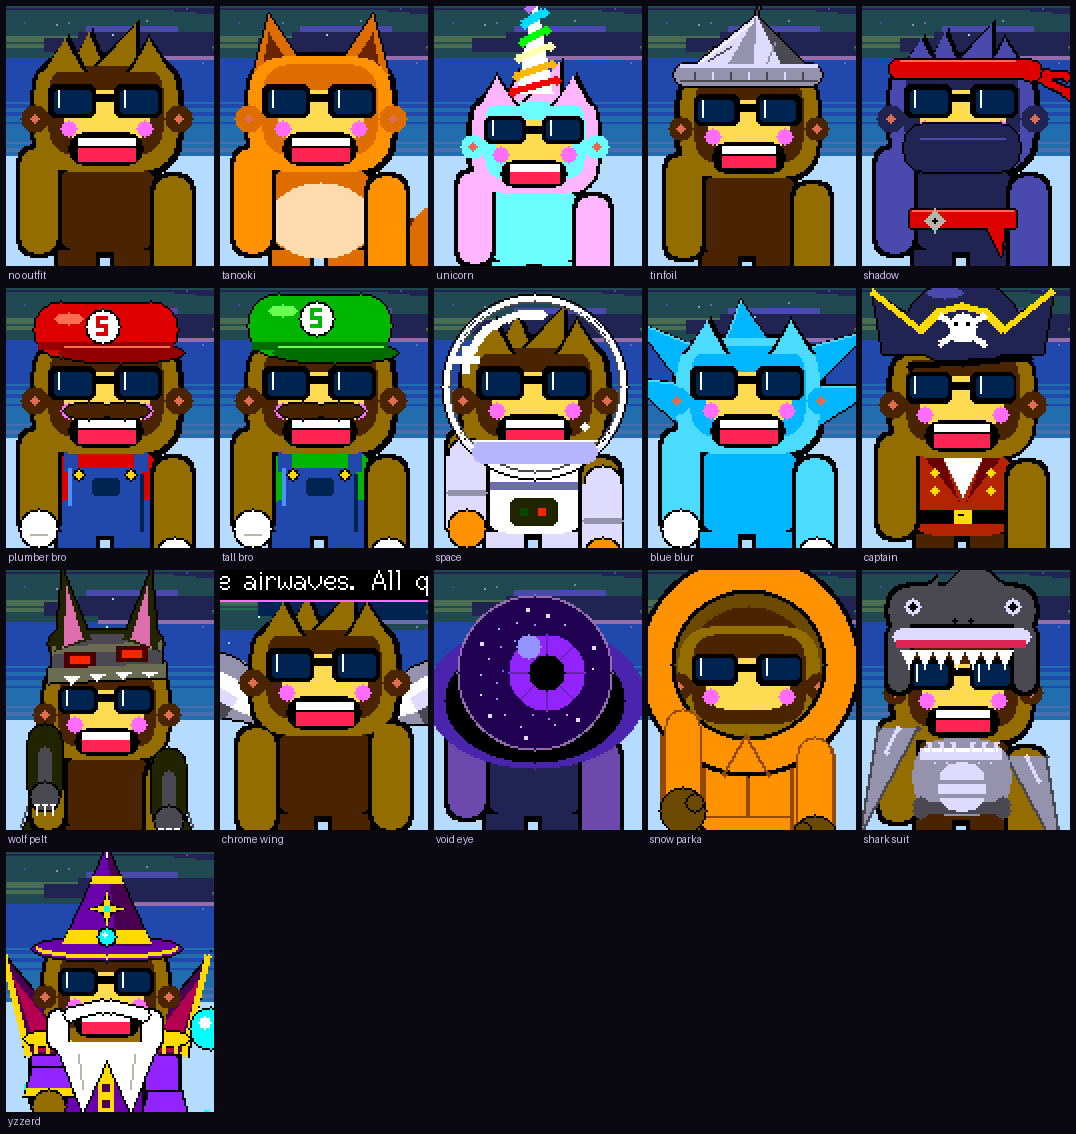
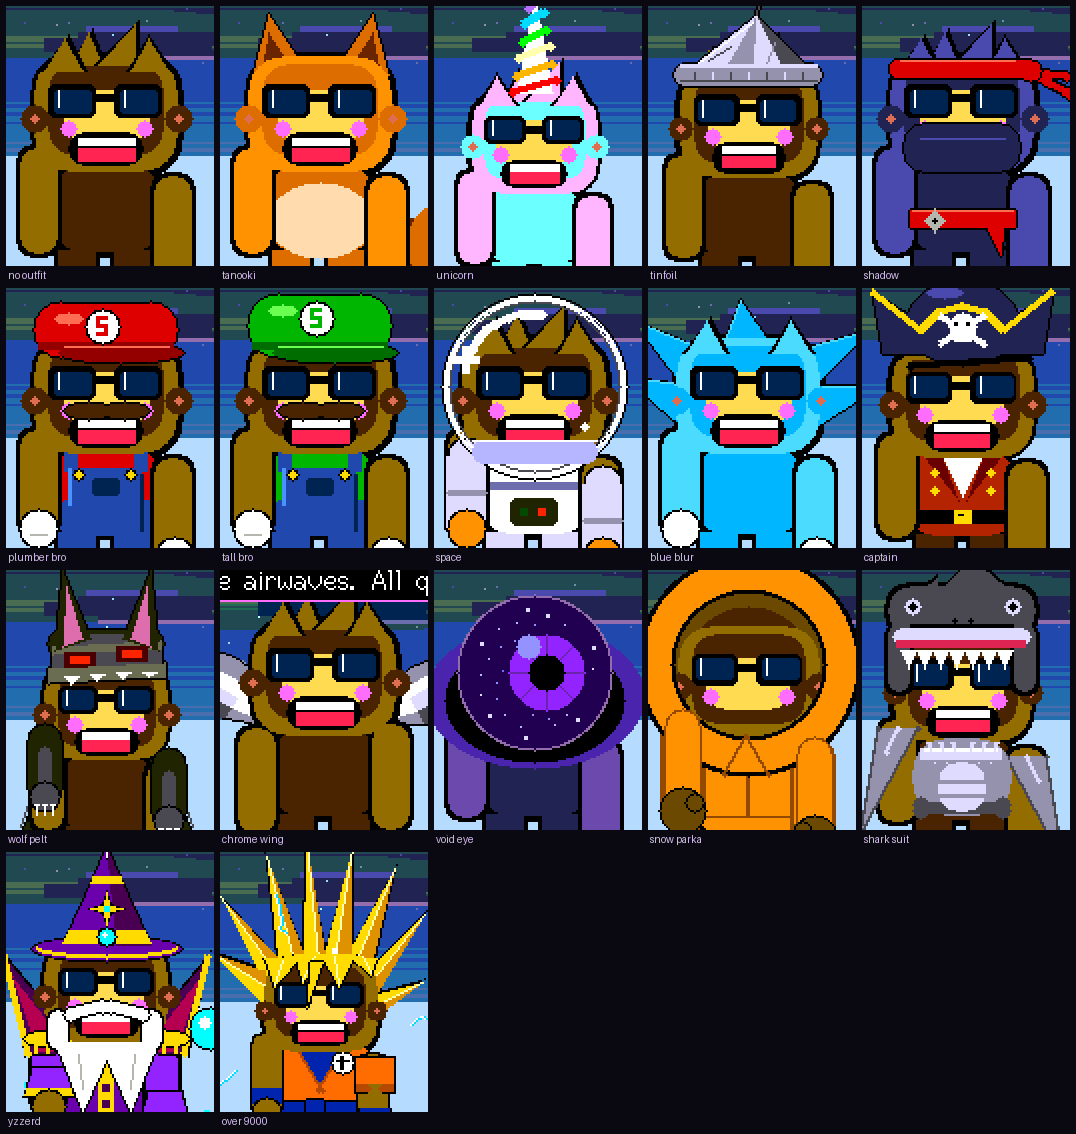
v1.28.0 "Over 9000": release notes, clip, and the C5 in the Release
The notes, docs/over-9000.gif, the outfit gallery with OVER 9000 in it and
the README's count and new board. release-flasher.yml builds the NM-CYD-C5
in a runner of its own (its toolchain must not share one with the Xtensa
builds) and attaches its four files to the Release -- no merged image for
it, which would wipe NVS -- and the release goes out without it if that
runner fails. The C5 stays off the browser flasher until its library is
shown to handle a C5.

Changed region(s): [[0.184, 0.7407, 0.3987, 1.0]]

diff --git a/sim/make_show_demo.py b/sim/make_show_demo.py
@@ -32,6 +32,18 @@ CYAN  = (0, 214, 214)
 # ---- the clips ----
 
 CLIPS = {
+    # v1.28.0 "Over 9000": the scouter unlock (a tap on his shades with the
+    # aura lit, which --tap lands on him), the outfit it earns, and the tank
+    # redrawn in whole numbers. The C5 is a chip, not a screen, so it gets a
+    # caption. SQUACHSIM_LEGEND lights the aura without the catches.
+    "over-9000": [
+        ("clear", 260, 30, ["--noseed", "--bg", "5"], {"SQUACHSIM_LEGEND": "1"}, 1500, "A LEGEND. THOSE SHADES READ MORE THAN LIGHT..."),
+        ("clear", 30, 104, ["--noseed", "--bg", "5", "--tap", "40:160:88"], {"SQUACHSIM_LEGEND": "1"}, 1800, "TAP THEM. HOLD STILL. READING..."),
+        ("clear", 260, 36, ["--noseed", "--bg", "1", "--outfit", "16"], {"SQUACHSIM_LEGEND": "1"}, 1600, "OVER 9000. OBVIOUSLY."),
+        ("clear", 260, 36, ["--noseed", "--bg", "8", "--outfit", "16"], {}, 1400, "GOLD HAIR, TORN SLEEVE, STATIC. IT'S A LOOK."),
+        ("clear", 200, 36, ["--noseed", "--bg", "3"], {}, 1600, "THE TANK DRAWS IN WHOLE NUMBERS NOW. SAME FISH."),
+        ("clear", 200, 30, ["--noseed", "--bg", "7"], {}, 1800, "AND A NEW CHIP: THE ESP32-C5. FIRST RISC-V BOARD."),
+    ],
     # v1.27.0 "Power-Up": the Legend's aura replaces the top hat, and the
     # YZZERD wizard, unlocked by tapping XYZZY on the TERMINAL background.
     # SQUACHSIM_LEGEND wears the Legend look without the catches; the

diff --git a/.github/release-notes/v1.28.0.md b/.github/release-notes/v1.28.0.md
@@ -1,0 +1,28 @@
+<!-- name: Over 9000 -->
+<!-- board: a new outfit behind a scouter | the first RISC-V board: RockBase NM-CYD-C5 | the aquarium and the wizard draw leaner -->
+**Over 9000.** Last time, Legends got an aura. This time Squachy found out what those sunglasses are for. Tap his shades while the aura is lit and a scouter flips down over one lens, hunts about, and starts reading his power level. It climbs. It climbs some more. Then it reads a number no scouter should have to read, and goes off like a firework. He takes it well.
+
+<p align="center"><img src="https://raw.githubusercontent.com/skizzophrenic/SquachWatch-CYD/v1.28.0/docs/over-9000.gif" width="480" alt="Squachy on his main screen wrapped in the aura, then a green scouter over his right lens reading a number that climbs past nine thousand and bursts. Then Squachy as OVER 9000: tall gold spiked hair, an orange gi with one sleeve torn off, static crackling over him, on two backgrounds. Then the aquarium, and a plain scene captioned for the new ESP32-C5 board."></p>
+
+**OVER 9000.** The sixteenth outfit, and the first one you have to be a Legend to reach, or own the lot. Gold hair standing up in tall spikes with one lock fallen over his shades, an orange gi with the left sleeve torn clean off, a blue belt, wristbands and boots. Static crawls over him the whole time, and now and then a bolt goes down his side and hits the floor. With the aura behind it, it's rather a lot. That was the idea. While the aura is lit his idle chatter drops hints about the shades on any background, the way the other hidden outfits hint on theirs.
+
+**Squads can hold seventeen outfits now.** Yzzerd filled the last slot the squad radio had for telling each other what they're wearing, so there's one more bit of it. A board on an older release will see a visiting OVER 9000 as plain Squachy. A wrong hat, not a crash, which is the deal this radio has always made.
+
+**The first RISC-V board.** The RockBase NM-CYD-C5 is the classic 2.8" CYD's glass and touch on an **ESP32-C5**: dual-band Wi-Fi 6, 16 MB of flash, 8 MB of extra memory, and a completely different kind of processor. Huge thanks to quietradio, who did the port, wrote a display driver the library had never heard of, found a clock register the chip ships wrong, measured all of it, and documented every pin. It's in this release as a build and as files you flash with esptool (the four-part command is in `docs/NM-CYD-C5.md`); it's not on the browser flasher yet, because the browser flasher's library hasn't been shown to handle a C5. Two things to know: it has no hardware for decimal maths, so it draws a little slower than the Xtensa boards (about 20 frames a second on most backgrounds), and it has no spare flash for the black box, so it keeps no crash history. It does run WiFi, Bluetooth, touch, the squad radio and the crypto self-test, and it's been drawing a wizard and a visiting Super Squach side by side all afternoon.
+
+**The aquarium learned to count.** For that chip's sake the tank's maths was redone in whole numbers: the light shafts worked out once a frame instead of once a row, a little sine table instead of the real thing, and the fish read their shape from a table instead of computing it. On the C5 the tank went from 8 frames a second to 15. On every other board it looks the same and costs the same; a few hundred pixels a frame land a shade differently and nobody can find them.
+
+**Yzzerd and OVER 9000 draw leaner.** Nothing under a robe or a gi gets painted any more, feet under slippers and boots are skipped, and the wizard's hat, slippers, moustache and shoulder pieces are outlined once instead of four times. Yzzerd paints a quarter fewer pixels a frame, OVER 9000 eight percent fewer, and on the 3.2" that's about two milliseconds back. On a real board Yzzerd and OVER 9000 cost the same, about 14 ms a frame with the aura on, against plain Squachy's 10.
+
+### The actually-useful part
+
+**Added**
+- OVER 9000, a new outfit: tap his shades while the Legend's aura is lit. A scouter reads his power level, and the first time it passes nine thousand the outfit is his. Hints on any background while the aura is lit. The master unlock includes it.
+- RockBase NM-CYD-C5 (ESP32-C5) support, `[env:nm-cyd-c5]`, by quietradio (#21). Release files for esptool; see `docs/NM-CYD-C5.md`. Not on the browser flasher yet.
+- Console: `OUTFIT n` wears costume n until the next boot and `AURA` toggles the aura, for timing things on a board. `LEGEND` stays.
+
+**Changed**
+- The squad radio's outfit field is five bits: seventeen outfits fit. Older boards show a visiting OVER 9000 as plain Squachy.
+- The aquarium's per-row, per-column and per-fish maths runs in whole numbers.
+- Yzzerd, OVER 9000, and four older outfits (space suit, both plumbers, the captain) no longer paint what their costume covers; Yzzerd's hat, slippers, moustache and shoulder pieces are outlined once.
+- The outfit gallery in the README shows all sixteen costumes.

diff --git a/README.md b/README.md
@@ -82,9 +82,15 @@ it on.
 
 Other boards have builds of their own -- `platformio.ini` has one
 `[env:...]` each, with what is and is not confirmed on it. The newest is the
-**Freenove ESP32-S3 Display 2.8"** (FNK0104B, `[env:freenove-s3]`): an S3
-with capacitive touch, an SDMMC card slot, a WS2812 status light and a
-battery connector. Pins in [docs/PINOUT.md](docs/PINOUT.md).
+**RockBase NM-CYD-C5** (`[env:nm-cyd-c5]`): the classic 2.8" CYD's glass on
+an **ESP32-C5**, the first RISC-V chip here, with dual-band Wi-Fi 6, 16 MB of
+flash and 8 MB of PSRAM. It runs the whole firmware but is download-only for
+now: flash it with esptool from the release files, as
+[docs/NM-CYD-C5.md](docs/NM-CYD-C5.md) explains, because the browser flasher's
+library has not been shown to handle a C5. Before it, the **Freenove ESP32-S3
+Display 2.8"** (FNK0104B, `[env:freenove-s3]`): an S3 with capacitive touch, an
+SDMMC card slot, a WS2812 status light and a battery connector. Pins in
+[docs/PINOUT.md](docs/PINOUT.md).
 
 ## Web Flash
 
@@ -393,13 +399,13 @@ one board by hand, then UPDATE SQUAD from it.
 
 ## Every outfit
 
-Squachy has fifteen costumes. Most are earned by detection count; five are
+Squachy has sixteen costumes. Most are earned by detection count; six are
 hidden behind things nobody tells you about, on the background they belong
 to. Two of them are in the animation at the top of this page.
 
 <p align="center">
   <img src="docs/outfits.png" width="880"
-       alt="All fifteen of Squachy's outfits, rendered by the firmware">
+       alt="All sixteen of Squachy's outfits, rendered by the firmware">
 </p>
 
 No fabricated marketing shots, which was the promise here before there was
